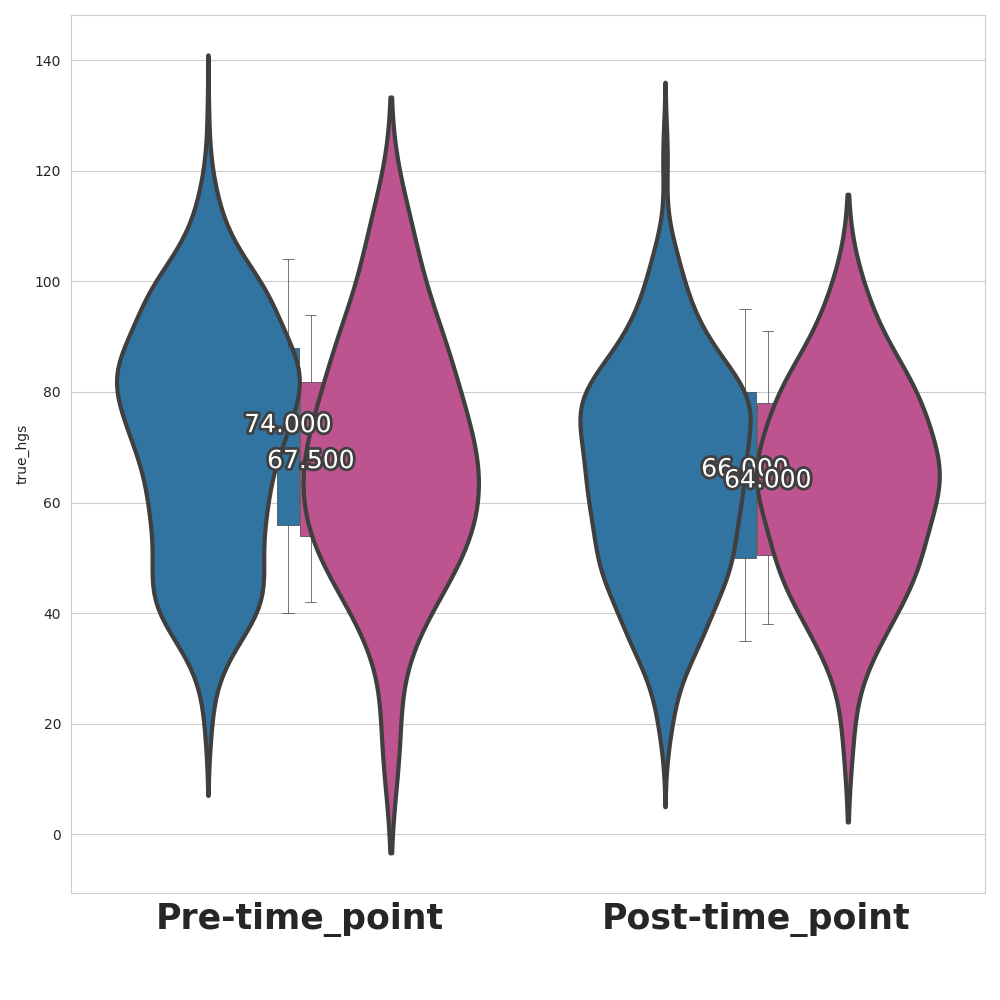
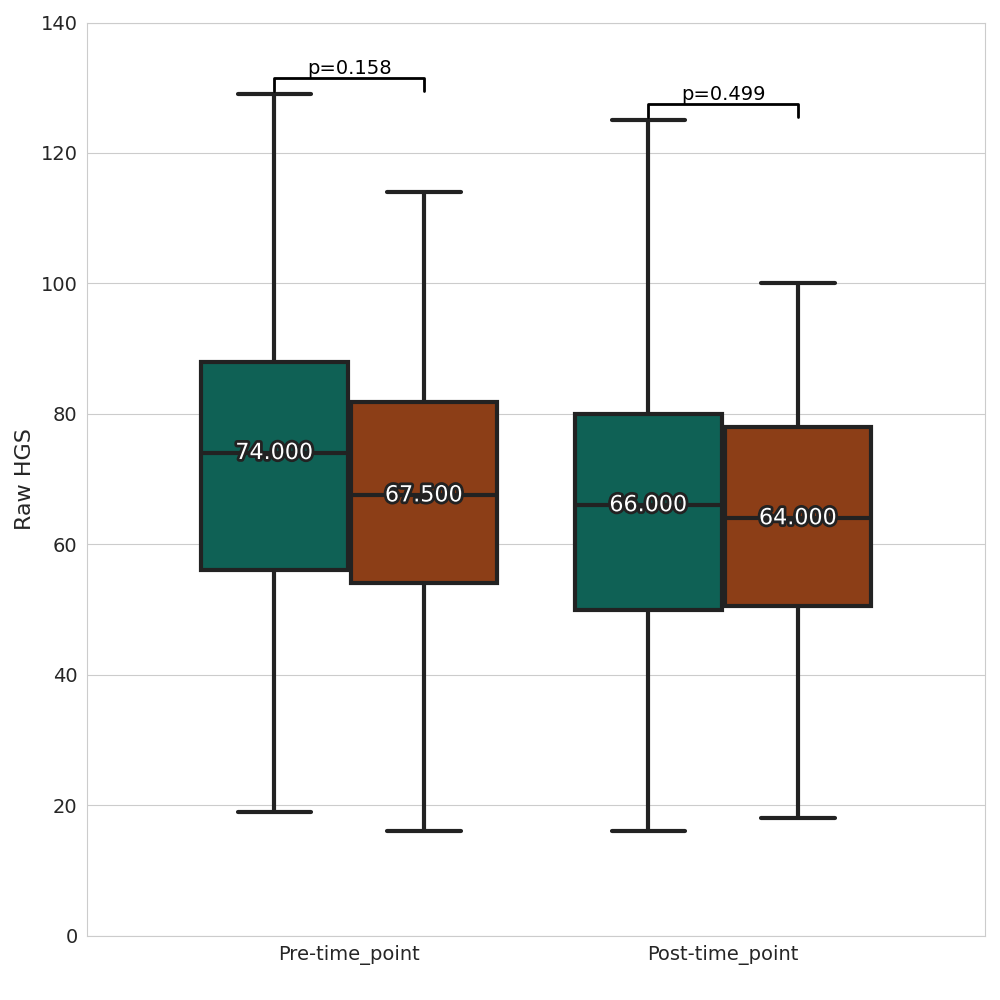
plot non parametric analysis on disorders data

diff --git a/exec/9_test_trained_models_on_disorders/plot_non_parametric_analysis_comparing_hgs_pre_post_time_points.py b/exec/9_test_trained_models_on_disorders/plot_non_parametric_analysis_comparing_hgs_pre_post_time_points.py
@@ -117,8 +117,7 @@ def add_median_labels(ax, fmt='.3f'):
         x, y = (data.mean() for data in median.get_data())
         # choose value depending on horizontal or vertical plot orientation
         value = x if (median.get_xdata()[1] - median.get_xdata()[0]) == 0 else y
-        text = ax.text(x, y, f'{value:{fmt}}', ha='center', va='center',  color='white', fontsize=18)
-                    #    fontweight='bold',
+        text = ax.text(x, y, f'{value:{fmt}}', ha='center', va='center',  color='white', fontsize=16)
         # create median-colored border around white text for contrast
         text.set_path_effects([
             path_effects.Stroke(linewidth=4, foreground=median.get_color()),
@@ -139,70 +138,60 @@ if(not os.path.isdir(folder_path)):
 ###############################################################################        
 xtick_labels = ['Pre-time_point', 'Post-time_point']
 
-palette_control = sns.color_palette("Paired")
-palette_disorder = sns.color_palette("PiYG")
-custome_palette = [palette_control[1], palette_disorder[0]]
+palette_control = sns.color_palette("PuBuGn")
+palette_disorder = sns.color_palette("YlOrBr")
+custome_palette = [palette_control[5], palette_disorder[5]]
 ###############################################################################
 # Set the style of seaborn
 sns.set_style("whitegrid")
 # Create the boxplot
 fig, ax = plt.subplots(figsize=(10, 10))
 
-g = sns.violinplot(data=df, x='time_point', y=f"{anova_target}", hue='group', palette=custome_palette, linewidth=3, inner=None, ax=ax)
-g.boxplot(data=df, x='time_point', y=f"{anova_target}", hue='group', palette=custome_palette, whis=0.5, width=0.1, fliersize=0, linewidth=0.5)
-
-# Violin plot with split=True for hue groups
-# sns.violinplot(data=df, x='time_point', y=f"{anova_target}", hue='group', palette=custome_palette, linewidth=3, inner=None, fill=False, ax=ax)
-
-# # Boxplot without the hue parameter
-# sns.boxplot(data=df, x='time_point', y=f"{anova_target}", hue='group', palette=custome_palette, width=0.5, fliersize=0, boxprops={'zorder': 2}, ax=ax)
-
-
-# sns.boxplot(data=df, x='time_point', y=f"{anova_target}", hue='group', palette=custome_palette, linewidth=3)
+sns.boxplot(data=df, x='time_point', y=f"{anova_target}", hue='group', palette=custome_palette, linewidth=3)
 ax.legend().set_visible(False)
-ax.set_xlabel(" ", fontsize=30, fontweight="bold")
+ax.set_xlabel(" ")
 
 # Setting the xtick labels
-ax.set_xticklabels(xtick_labels, size=25, weight='bold')
-if anova_target == "hgs":
-    ax.set_ylabel("Raw HGS", fontsize=30, fontweight="bold")
+ax.set_xticklabels(xtick_labels, size=14)
+if anova_target == "true_hgs":
+    ax.set_ylabel("Raw HGS", fontsize=16)
 elif anova_target == "hgs_corrected_predicted":
-    ax.set_ylabel("Adjusted HGS", fontsize=30, fontweight="bold")
+    ax.set_ylabel("Adjusted HGS", fontsize=16)
 elif anova_target == "hgs_predicted":
-    ax.set_ylabel("Predicted HGS", fontsize=30, fontweight="bold")
+    ax.set_ylabel("Predicted HGS", fontsize=16)
 elif anova_target == "hgs_corrected_delta":
-    ax.set_ylabel("Delta adjusted HGS", fontsize=30, fontweight="bold")
+    ax.set_ylabel("Delta adjusted HGS", fontsize=16)
 elif anova_target == "hgs_delta":
-    ax.set_ylabel("Delta HGS", fontsize=30, fontweight="bold")
+    ax.set_ylabel("Delta HGS", fontsize=16)
     
 xticks_positios_array = add_median_labels(ax)
 
-# for x_box_pos in np.arange(0,4,2):
-#     if x_box_pos == 0:
-#         idx = "pre-time_point"
-#     if x_box_pos == 2:
-#         idx = "post-time_point"
-#     x1 = xticks_positios_array[x_box_pos]
-#     x2 = xticks_positios_array[x_box_pos+1]
-#     y, h, col = df_yaxis_max.loc[idx, f"{anova_target}_max_value"]+.5, 2, 'k'
-#     ax.plot([x1, x1, x2, x2], [y, y+h, y+h, y], lw=2, c=col)
-#     ax.text((x1+x2)*.5, y+h, f"p={df_mannwhitneyu.loc[idx, f'{anova_target}_p_value']:.3f}", ha='center', va='bottom', fontsize=18, weight='bold',  color=col)
+for x_box_pos in np.arange(0,4,2):
+    if x_box_pos == 0:
+        idx = "pre-time_point"
+    if x_box_pos == 2:
+        idx = "post-time_point"
+    x1 = xticks_positios_array[x_box_pos]
+    x2 = xticks_positios_array[x_box_pos+1]
+    y, h, col = df_yaxis_max.loc[idx, f"{anova_target}_max_value"]+.5, 2, 'k'
+    ax.plot([x1, x1, x2, x2], [y, y+h, y+h, y], lw=2, c=col)
+    ax.text((x1+x2)*.5, y+h, f"p={df_mannwhitneyu.loc[idx, f'{anova_target}_p_value']:.3f}", ha='center', va='bottom', fontsize=14,  color=col)
 
-if anova_target in ["hgs", "hgs_predicted", "hgs_corrected_predicted"]:
+if anova_target in ["true_hgs", "hgs_predicted", "hgs_corrected_predicted"]:
     ymin = round(ax.get_ylim()[0])
     ymax = round(ax.get_ylim()[1])
     # ax.set_yticks(range(math.floor(ymin/10)*10, math.ceil(ymax/10)*10+20, 20))
-    ax.set_yticks(range(ymin, ymax, 20))
-    ax.set_yticklabels(ax.get_yticks(), size=20, weight='bold')
-    plt.ylim(ymin, ymax)
+    ax.set_ylim(0, 140)
+    ax.set_yticks(range(0, 141, 20))
+    ax.set_yticklabels(ax.get_yticks(), size=14)
     
 elif anova_target in ["hgs_delta", "hgs_corrected_delta"]:
     ymin = round(ax.get_ylim()[0])
     ymax = round(ax.get_ylim()[1])
     # ax.set_yticks(range(math.floor(ymin/10)*10, math.ceil(ymax/10)*10+20, 20))
-    ax.set_yticks(range(ymin, ymax, 5))
-    ax.set_yticklabels(ax.get_yticks(), size=20, weight='bold')
-    plt.ylim(ymin, ymax)
+    ax.set_ylim(-30, 30)
+    ax.set_yticks(range(-30, 31, 10))
+    ax.set_yticklabels(ax.get_yticks(), size=14)
 
 # Adjust layout
 plt.tight_layout()
@@ -212,8 +201,8 @@ plt.show()
 file_path = os.path.join(folder_path, f"{population}_{anova_target}_2.png")
 plt.savefig(file_path)
 plt.close()
-print("===== Done! =====")
-embed(globals(), locals())
+# print("===== Done! =====")
+# embed(globals(), locals())
 ##############################################################################
 folder_path = os.path.join("plot_non_parametric_analysis", f"{population}", f"{first_event}", f"{target}", f"{n_samples}_matched", "interaction")
 
@@ -226,20 +215,20 @@ sns.set_style("whitegrid")
 fig, ax = plt.subplots(figsize=(10, 10))
 sns.boxplot(data=df_interaction, x='time_point', y=f"interaction_{anova_target}", hue='group', palette=custome_palette, linewidth=3)
 ax.legend().set_visible(False)
-ax.set_xlabel("Interaction", fontsize=25, fontweight="bold")
+ax.set_xlabel("Interaction", fontsize=25)
 ax.set_xticklabels("")
 
 # Setting the xtick labels
-if anova_target == "hgs":
-    ax.set_ylabel("Raw HGS", fontsize=30, fontweight="bold")
+if anova_target == "true_hgs":
+    ax.set_ylabel("Raw HGS", fontsize=30)
 elif anova_target == "hgs_corrected_predicted":
-    ax.set_ylabel("Adjusted HGS", fontsize=30, fontweight="bold")
+    ax.set_ylabel("Adjusted HGS", fontsize=30)
 elif anova_target == "hgs_predicted":
-    ax.set_ylabel("Predicted HGS", fontsize=30, fontweight="bold")
+    ax.set_ylabel("Predicted HGS", fontsize=30)
 elif anova_target == "hgs_corrected_delta":
-    ax.set_ylabel("Delta adjusted HGS", fontsize=30, fontweight="bold")
+    ax.set_ylabel("Delta adjusted HGS", fontsize=30)
 elif anova_target == "hgs_delta":
-    ax.set_ylabel("Delta HGS", fontsize=30, fontweight="bold")
+    ax.set_ylabel("Delta HGS", fontsize=30)
     
 xticks_positios_array = add_median_labels(ax)
 
@@ -248,29 +237,34 @@ x1 = xticks_positios_array[x_box_pos]
 x2 = xticks_positios_array[x_box_pos+1]
 y, h, col = df_yaxis_max.loc["interaction", f"{anova_target}_max_value"]+1, 2, 'k'
 ax.plot([x1, x1, x2, x2], [y, y+h, y+h, y], lw=2, c=col)
-ax.text((x1+x2)*.5, y+h, f"p={p_value_interaction:.3f}", ha='center', va='bottom', fontsize=18, weight='bold',  color=col)
+ax.text((x1+x2)*.5, y+h, f"p={p_value_interaction:.3f}", ha='center', va='bottom', fontsize=14,  color=col)
 
-if anova_target in ["hgs", "hgs_corrected_predicted"]:
+if anova_target in ["true_hgs", "hgs_corrected_predicted"]:
     ymin = round(ax.get_ylim()[0])
     ymax = round(ax.get_ylim()[1])
-    ax.set_yticks(range(math.floor(ymin/10)*10, math.ceil(ymax/10)*10+20, 5))
-    ax.set_yticklabels(ax.get_yticks(), size=20, weight='bold')
+    # ax.set_yticks(range(math.floor(ymin/10)*10, math.ceil(ymax/10)*10+10, 10))
+    ax.set_ylim(-80, 60)
+    ax.set_yticks(range(-80, 66, 20))
+    ax.set_yticklabels(ax.get_yticks(), size=14)
+    
 elif anova_target == "hgs_delta":
     ymin = round(ax.get_ylim()[0])
     ymax = round(ax.get_ylim()[1])
-    ax.set_yticks(range(math.floor(ymin/10)*10, math.ceil(ymax/10)*10+20, 5))
-    ax.set_yticklabels(ax.get_yticks(), size=20, weight='bold')
+    ax.set_yticks(range(math.floor(ymin/10)*10, math.ceil(ymax/10)*10, 10))
+    ax.set_yticklabels(ax.get_yticks(), size=14)
 elif anova_target in ["hgs_corrected_delta", "hgs_predicted"]:
     ymin = round(ax.get_ylim()[0])
     ymax = round(ax.get_ylim()[1])
-    ax.set_yticks(range(math.floor(ymin/10)*10, math.ceil(ymax/10)*10+10, 5))
-    ax.set_yticklabels(ax.get_yticks(), size=20, weight='bold')
+    ax.set_ylim(-30, 30)
+    # ax.set_yticks(range(math.floor(ymin/5)*5, math.ceil(ymax/5)*5+5, 5))
+    ax.set_yticks(range(-30, 31, 10))
+    ax.set_yticklabels(ax.get_yticks(), size=14)
 # Adjust layout
 plt.tight_layout()
 
 # Show the plot
 plt.show()
-file_path = os.path.join(folder_path, f"{population}_{anova_target}_interaction.png")
+file_path = os.path.join(folder_path, f"{population}_{anova_target}_interaction_2.png")
 plt.savefig(file_path)
 plt.close()
 

diff --git a/exec/9_test_trained_models_on_disorders/plot_comparing_hgs_pre_post_time_points_gender_specific.py b/exec/9_test_trained_models_on_disorders/plot_comparing_hgs_pre_post_time_points_gender_specific.py
@@ -29,7 +29,8 @@ disorder_cohort = sys.argv[8]
 visit_session = sys.argv[9]
 n_samples = sys.argv[10]
 target = sys.argv[11]
-anova_target = sys.argv[12]
+firts_event = sys.argv[12]
+anova_target = sys.argv[13]
 ##############################################################################
 disorder_cohort = f"{disorder_cohort}-{population}"
 if visit_session == "1":
@@ -48,6 +49,7 @@ data = load_prepare_data_for_anova(
     n_repeats,
     n_folds,
     n_samples,
+    firts_event,
 )
 # print("===== Done! =====")
 # embed(globals(), locals())
